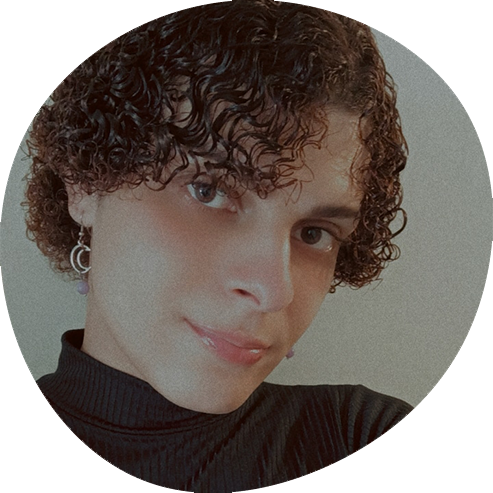
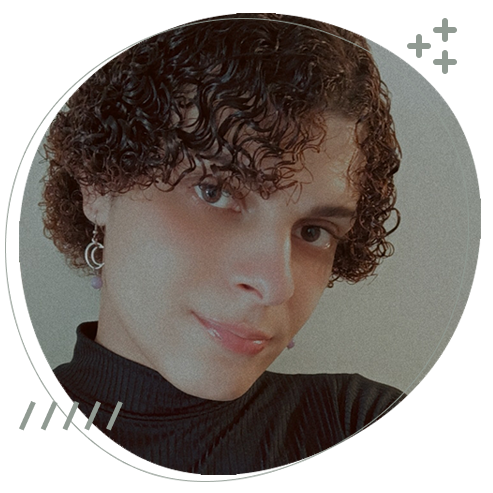
layout

diff --git a/dist/assets/index-0BNUAclU.css b/dist/assets/index-0BNUAclU.css
@@ -1,4 +1,4 @@
-:root{--light-yellow: #FBF8CC;--text-color: #744f78;--dark-brown: #474306;--yellow: #F5EE84;--bg-color: #faf6d0;--font-regular: 400 1rem/150% "Poppins", sans-serif;--font-md: 400 1.75rem/150% "Poppins", sans-serif;--semi-bold: 700 1.5rem /150% "Poppins", sans-serif;--font-xl: 800 4rem/100% "Poppins", sans-serif}html{font-family:var(--font-regular);margin:1.6rem}body{background-color:var(--bg-color);overflow-x:hidden}.logo{font:var(--semi-bold);cursor:default;text-decoration:none}.nav-link{color:var(--text-color)!important;font:var(--font-regular);padding-inline:1rem;transition:text-shadow .3s ease;transition:color .2s ease}.nav-link:hover{color:var(--yellow)!important;text-shadow:2px 1px 4px rgba(0,0,0,.802)}.d-flex a{color:var(--text-color)}.fa-brands{transition:text-shadow .3s ease;transition:color .3s ease}.fa-brands:hover{color:var(--yellow)!important;text-shadow:1px 1px 4px rgba(0,0,0,.802)}p{font:var(--font-md);color:var(--text-color)}h1{font:var(--font-xl);color:var(--text-color)}.button-container{position:relative;display:inline-block;width:10.25rem;height:4.25rem}.button,.button-hover{position:absolute;top:0;left:0;width:100%;height:100%;transition:opacity .2s ease}.button{opacity:1}.button-hover,.button-container:hover .button{opacity:0}.button-container:hover .button-hover{opacity:1}.avatar{padding-right:2.5rem;position:relative;max-width:100%;height:auto}.avatar-container{width:100%;max-width:30rem;height:auto}.profile{width:100%;height:auto;display:block}.contour{position:absolute;top:0;left:0;width:100%;height:100%;pointer-events:none;transform:translate(-3%,2%)}.cross{position:absolute;top:0;left:0;height:6vw;width:auto;pointer-events:none;transform:translate(30vw,-1vw)}.retangles{position:absolute;top:0;left:0;width:10vw;transform:translate(4%,32vw)}.container-1{width:100%;max-width:30rem;height:auto}@media (max-width: 768px){h1{font-size:3rem}.avatar{margin-top:2rem;height:auto}.cross{width:auto;height:8vw;transform:translate(37vw,1%)}.retangles{height:4vw;width:auto;transform:translate(-2vw,35vw)}.contour{transform:translate(-1%,2%)}}@media (max-width: 576px){h1{font-size:3rem}.avatar{margin-top:2rem;max-width:20rem;height:auto;left:1rem}.contour{transform:translate(-1%,3%)}.cross{width:auto;height:12vw;transform:translate(60vw,-1%)}.retangles{height:8vw;width:auto;transform:translate(-5vw,60vw)}}@keyframes slideInRight{0%{opacity:0;transform:translate(100%)}to{opacity:1;transform:translate(0)}}@keyframes slideInLeft{0%{opacity:0;transform:translate(-100%)}to{opacity:1;transform:translate(0)}}.slide-in-right{animation:slideInRight 1.5s ease-out forwards}.slide-in-left{animation:slideInLeft 1.5s ease-out forwards}/*!
+:root{--light-yellow: #FBF8CC;--text-color: #744f78;--dark-brown: #474306;--yellow: #F5EE84;--bg-color: #faf6d0;--font-regular: 400 1rem/150% "Poppins", sans-serif;--font-md: 400 1.75rem/150% "Poppins", sans-serif;--semi-bold: 700 1.5rem /150% "Poppins", sans-serif;--font-xl: 800 4rem/100% "Poppins", sans-serif}html{font-family:var(--font-regular);margin:1.6rem}body{background-color:var(--bg-color);overflow-x:hidden}.logo{font:var(--semi-bold);cursor:default;text-decoration:none}.nav-link{color:var(--text-color)!important;font:var(--font-regular);padding-inline:1rem;transition:text-shadow .3s ease;transition:color .2s ease}.nav-link:hover{color:var(--yellow)!important;text-shadow:2px 1px 4px rgba(0,0,0,.802)}.d-flex a{color:var(--text-color)}.fa-brands{transition:text-shadow .3s ease;transition:color .3s ease}.fa-brands:hover{color:var(--yellow)!important;text-shadow:1px 1px 4px rgba(0,0,0,.802)}p{font:var(--font-md);color:var(--text-color)}h1{font:var(--font-xl);color:var(--text-color)}.button-container{position:relative;display:inline-block;width:10.25rem;height:4.25rem}.button,.button-hover{position:absolute;top:0;left:0;width:100%;height:100%;transition:opacity .2s ease}.button{opacity:1}.button-hover,.button-container:hover .button{opacity:0}.button-container:hover .button-hover{opacity:1}.avatar{padding-right:2.5rem;position:relative;max-width:100%;height:auto}.avatar-container{width:100%;max-width:30rem;height:auto}.profile{width:100%;height:auto;display:block}.contour{position:absolute;top:0;left:0;width:100%;height:100%;pointer-events:none;transform:translate(-3%,2%)}.cross{position:absolute;top:0;left:0;height:6vw;width:auto;pointer-events:none;transform:translate(30vw,-1vw)}.retangles{position:absolute;top:0;left:0;width:10vw;transform:translate(4%,32vw)}.container-1{width:100%;max-width:30rem;height:auto}@media (max-width: 768px){h1{font-size:3rem}.avatar{margin-top:2rem;height:auto}.cross{width:auto;height:8vw;transform:translate(37vw,1%)}.retangles{height:4vw;width:auto;transform:translate(-2vw,35vw)}.contour{transform:translate(-1%,2%)}}@media (max-width: 576px){body{overflow-x:hidden}h1{font-size:3rem}.avatar{margin-top:2rem;max-width:20rem;height:auto;left:1rem}.contour{transform:translate(-1%,3%)}.cross{width:auto;height:12vw;transform:translate(60vw,-1%)}.retangles{height:8vw;width:auto;transform:translate(-5vw,60vw)}}@keyframes slideInRight{0%{opacity:0;transform:translate(100%)}to{opacity:1;transform:translate(0)}}@keyframes slideInLeft{0%{opacity:0;transform:translate(-100%)}to{opacity:1;transform:translate(0)}}.slide-in-right{animation:slideInRight 1.5s ease-out forwards}.slide-in-left{animation:slideInLeft 1.5s ease-out forwards}/*!
 * Font Awesome Free 6.6.0 by @fontawesome - https://fontawesome.com
 * License - https://fontawesome.com/license/free (Icons: CC BY 4.0, Fonts: SIL OFL 1.1, Code: MIT License)
 * Copyright 2024 Fonticons, Inc.

diff --git a/dist/assets/index-BKzf9TBR.js b/dist/assets/index-BKzf9TBR.js
@@ -1,0 +1,50 @@
+(function(){const s=document.createElement("link").relList;if(s&&s.supports&&s.supports("modulepreload"))return;for(const e of document.querySelectorAll('link[rel="modulepreload"]'))n(e);new MutationObserver(e=>{for(const t of e)if(t.type==="childList")for(const r of t.addedNodes)r.tagName==="LINK"&&r.rel==="modulepreload"&&n(r)}).observe(document,{childList:!0,subtree:!0});function i(e){const t={};return e.integrity&&(t.integrity=e.integrity),e.referrerPolicy&&(t.referrerPolicy=e.referrerPolicy),e.crossOrigin==="use-credentials"?t.credentials="include":e.crossOrigin==="anonymous"?t.credentials="omit":t.credentials="same-origin",t}function n(e){if(e.ep)return;e.ep=!0;const t=i(e);fetch(e.href,t)}})();function l(){const a=document.createElement("header");a.className="py-3";const s=document.createElement("div");s.className="container d-flex justify-content-between align-items-center",s.innerHTML=`
+    <a class="logo" href="#">Maryane Soares</a>
+    <nav class="navbar d-none d-md-block">
+      <ul class="navbar-nav flex-row gap-3">
+        <li class="nav-item">
+          <a class="nav-link active" href="#home">Home</a>
+        </li>
+        <li class="nav-item">
+          <a class="nav-link" href="#about">About</a>
+        </li>
+        <li class="nav-item">
+          <a class="nav-link" href="#work">Work</a>
+        </li>
+      </ul>
+    </nav>
+    <div class="d-flex align-items-center">
+      <a href="https://www.instagram.com/maryane.py/" target="_blank" class="me-3 fa-2x"><i class="fa-brands fa-instagram"></i></a>
+      <a href="https://github.com/MarySql" target ="_blank" class="me-3 fa-2x"><i class="fa-brands fa-github"></i></a>
+      <a href="https://www.linkedin.com/in/maryane-soares-1b4642327/" target="_blank" class="me-3"><i class="fa-brands fa-linkedin fa-2x"></i></a>
+    </div>
+  `,a.appendChild(s),document.querySelector("#app").appendChild(a)}function o(){const a=document.createElement("main");a.innerHTML=`
+<div class="container text-center mt-5">
+  <div class="text-start row justify-content-center align-items-center">
+
+    <!-- Coluna de texto -->
+    <div id="textColumn" class="col d-flex flex-column ">
+      <p>Hello, I’m Maryane</p>
+      <h1>Fullstack Developer</h1>
+      <p>based in Brazil.</p>
+      <a class="button-container" href="#">
+       <img class="button" alt="resume">
+       <img class="button-hover" alt="resume">
+      </a>
+    </div>
+
+    <!-- Coluna de avatar -->
+    <div id="avatarColumn" class="col d-flex justify-content-center align-items-center avatar">
+      <div class="position-relative avatar-container">
+        <img class="profile" alt="profile">
+        <img class="contour" alt="#">
+        <img class="cross" alt="#">
+        <img class="retangles" alt="#">
+      </div>
+    </div>
+
+  </div>
+</div>
+
+
+  `,window.addEventListener("load",()=>{document.querySelector(".button").setAttribute("src","assets/button.svg"),document.querySelector(".button-hover").setAttribute("src","assets/button-hover.svg"),document.querySelector(".profile").setAttribute("src","assets/profile.png"),document.querySelector(".contour").setAttribute("src","assets/contour.svg"),document.querySelector(".cross").setAttribute("src","assets/cross.svg"),document.querySelector(".retangles").setAttribute("src","assets/retangles.svg"),document.getElementById("textColumn").classList.add("slide-in-left"),document.getElementById("avatarColumn").classList.add("slide-in-right")}),document.querySelector("#app").appendChild(a)}l();o();

diff --git a/routes/main.js b/routes/main.js
@@ -3,26 +3,23 @@ export function renderMain() {
   const main = document.createElement('main');
   main.innerHTML = `
 <div class="container text-center mt-5">
-  <div class="text-start row justify-content-center align-items-center">
+  <div class="text-start row justify-content-center align-items-center flex-column flex-sm-row">
 
     <!-- Coluna de texto -->
-    <div id="textColumn" class="col d-flex flex-column ">
+    <div id="textColumn" class="col-12 col-sm-6 d-flex flex-column order-1 order-sm-1 mb-4 mb-sm-0">
       <p>Hello, I’m Maryane</p>
       <h1>Fullstack Developer</h1>
       <p>based in Brazil.</p>
       <a class="button-container" href="#">
-        <img class="button" src="assets/button.svg" alt="resume">
-        <img class="button-hover" src="assets/button-hover.svg" alt="resume">
+        <img class="button" alt="resume">
+        <img class="button-hover" alt="resume">
       </a>
     </div>
 
     <!-- Coluna de avatar -->
-    <div id="avatarColumn" class="col d-flex justify-content-center align-items-center avatar">
-      <div class="position-relative avatar-container">
-        <img class="profile" src="assets/profile.png" alt="profile">
-        <img class="contour" src="assets/contour.svg" alt="#">
-        <img class="cross" src="assets/cross.svg" alt="#">
-        <img class="retangles" src="assets/retangles.svg" alt="#">
+    <div id="avatarColumn" class="col-12 col-sm-6 d-flex justify-content-center align-items-center avatar order-2 order-sm-2">
+      <div class="avatar-container">
+        <img class="profile img-fluid" alt="profile">
       </div>
     </div>
 
@@ -32,10 +29,16 @@ export function renderMain() {
 
   `;
 
-   // Adiciona as classes de animação ao carregar a página
-   window.addEventListener('load', () => {
+
+  // Adiciona as classes de animação ao carregar a página
+  window.addEventListener('load', () => {
+    document.querySelector('.button').setAttribute('src', 'assets/button.svg');
+    document.querySelector('.button-hover').setAttribute('src', 'assets/button-hover.svg');
+    document.querySelector('.profile').setAttribute('src', 'assets/profile.png');
+
     document.getElementById('textColumn').classList.add('slide-in-left');
     document.getElementById('avatarColumn').classList.add('slide-in-right');
   });
+
   document.querySelector('#app').appendChild(main);
 }

diff --git a/dist/index.html b/dist/index.html
@@ -1,21 +1,25 @@
 <!doctype html>
 <html lang="pt-br">
-  <head>
-    <meta charset="UTF-8" />
-    <link rel="icon" type="image/svg+xml" href="/vite.svg" />
-    <link rel="preconnect" href="https://fonts.googleapis.com">
-    <link rel="preconnect" href="https://fonts.gstatic.com" crossorigin>
-    <link href="https://fonts.googleapis.com/css2?family=Poppins:ital,wght@0,100;0,200;0,300;0,400;0,500;0,600;0,700;0,800;0,900;1,100;1,200;1,300;1,400;1,500;1,600;1,700;1,800;1,900&display=swap" rel="stylesheet">
-    <link href="https://cdnjs.cloudflare.com/ajax/libs/bootstrap/5.3.0/css/bootstrap.min.css" rel="stylesheet">
+
+<head>
+  <meta charset="UTF-8" />
+  <link rel="preconnect" href="https://fonts.googleapis.com">
+  <link rel="preconnect" href="https://fonts.gstatic.com" crossorigin>
+  <link
+    href="https://fonts.googleapis.com/css2?family=Poppins:ital,wght@0,100;0,200;0,300;0,400;0,500;0,600;0,700;0,800;0,900;1,100;1,200;1,300;1,400;1,500;1,600;1,700;1,800;1,900&display=swap"
+    rel="stylesheet">
+  <link href="https://cdnjs.cloudflare.com/ajax/libs/bootstrap/5.3.0/css/bootstrap.min.css" rel="stylesheet">
 
 
-    <meta name="viewport" content="width=device-width, initial-scale=1.0" />
-    <title>Portifólio Maryane Soares</title>
-    <script type="module" crossorigin src="./assets/index-DlbC0zdn.js"></script>
-    <link rel="stylesheet" crossorigin href="./assets/index-D8oksfeM.css">
-  </head>
-  <body>
-    
-    <div id="app"></div>
-  </body>
+  <meta name="viewport" content="width=device-width, initial-scale=1.0" />
+  <title>Portifólio Maryane Soares</title>
+  <script type="module" crossorigin src="./assets/index-BKzf9TBR.js"></script>
+  <link rel="stylesheet" crossorigin href="./assets/index-0BNUAclU.css">
+</head>
+
+<body>
+
+  <div id="app"></div>
+</body>
+
 </html>

diff --git a/styles/main.css b/styles/main.css
@@ -51,115 +51,16 @@ h1 {
   height: auto;
 }
 
-.avatar-container {
-  width: 100%;
-  max-width: 30rem;
-  height: auto;
-}
-
-.profile {
-  width: 100%;
-  height: auto;
-  display: block;
-}
-
-/* Contornos e elementos decorativos */
-.contour {
-  position: absolute;
-  top: 0;
-  left: 0;
-  width: 100%;
-  height: 100%;
-  pointer-events: none;
-  transform: translate(-3%, 2%);
-}
-
-.cross {
-  position: absolute;
-  top: 0;
-  left: 0;
-  height: 6vw;
-  /* Usa unidades de viewport para escalar com a janela */
-  width: auto;
-  pointer-events: none;
-  transform: translate(30vw, -1vw);
-}
-
-.retangles {
-  position: absolute;
-  top: 0;
-  left: 0;
-  width: 10vw;
-  /* Usa unidades de viewport para escalar */
-  transform: translate(4%, 32vw);
-}
-
-.container-1 {
-  width: 100%;
-  max-width: 30rem;
-  height: auto;
-}
 
 /* Media queries para telas menores */
 @media (max-width: 768px) {
   h1 {
     font-size: 3rem;
   }
-
-  .avatar {
-    margin-top: 2rem;
-    height: auto;
-  }
-
-  .cross {
-    width: auto;
-    height: 8vw;
-    transform: translate(37vw, 1%);
-  }
-
-  .retangles {
-    height: 4vw;
-    width: auto;
-    transform: translate(-2vw, 35vw);
-  }
-
-  .contour {
-    transform: translate(-1%, 2%);
-  }
-
+  
 }
 
-@media (max-width: 576px) {
-  body {
-    overflow-x: hidden;
-  }
-  h1 {
-    font-size: 3rem;
-  }
 
-  .avatar {
-    margin-top: 2rem;
-    max-width: 20rem;
-    height: auto;
-    left: 1rem;
-  }
-
-  .contour {
-    transform: translate(-1%, 3%);
-  }
-
-  .cross {
-    width: auto;
-    height: 12vw;
-    transform: translate(60vw, -1%);
-  }
-
-  .retangles {
-    height: 8vw;
-    width: auto;
-    transform: translate(-5vw, 60vw);
-  }
-}
 
 /* Animação do avatar entrando pela direita */
 @keyframes slideInRight {

diff --git a/index.html b/index.html
@@ -1,20 +1,25 @@
 <!doctype html>
 <html lang="pt-br">
-  <head>
-    <meta charset="UTF-8" />
-    <link rel="icon" type="image/svg+xml" href="/vite.svg" />
-    <link rel="preconnect" href="https://fonts.googleapis.com">
-    <link rel="preconnect" href="https://fonts.gstatic.com" crossorigin>
-    <link href="https://fonts.googleapis.com/css2?family=Poppins:ital,wght@0,100;0,200;0,300;0,400;0,500;0,600;0,700;0,800;0,900;1,100;1,200;1,300;1,400;1,500;1,600;1,700;1,800;1,900&display=swap" rel="stylesheet">
-    <link href="https://cdnjs.cloudflare.com/ajax/libs/bootstrap/5.3.0/css/bootstrap.min.css" rel="stylesheet">
+
+<head>
+  <meta charset="UTF-8" />
+
+  <link rel="preconnect" href="https://fonts.googleapis.com">
+  <link rel="preconnect" href="https://fonts.gstatic.com" crossorigin>
+  <link
+    href="https://fonts.googleapis.com/css2?family=Poppins:ital,wght@0,100;0,200;0,300;0,400;0,500;0,600;0,700;0,800;0,900;1,100;1,200;1,300;1,400;1,500;1,600;1,700;1,800;1,900&display=swap"
+    rel="stylesheet">
+  <link href="https://cdnjs.cloudflare.com/ajax/libs/bootstrap/5.3.0/css/bootstrap.min.css" rel="stylesheet">
 
 
-    <meta name="viewport" content="width=device-width, initial-scale=1.0" />
-    <title>Portifólio Maryane Soares</title>
-  </head>
-  <body>
-    
-    <div id="app"></div>
-    <script type="module" src="app.js"></script>
-  </body>
+  <meta name="viewport" content="width=device-width, initial-scale=1.0" />
+  <title>Portifólio Maryane Soares</title>
+</head>
+
+<body>
+
+  <div id="app"></div>
+  <script type="module" src="app.js"></script>
+</body>
+
 </html>
